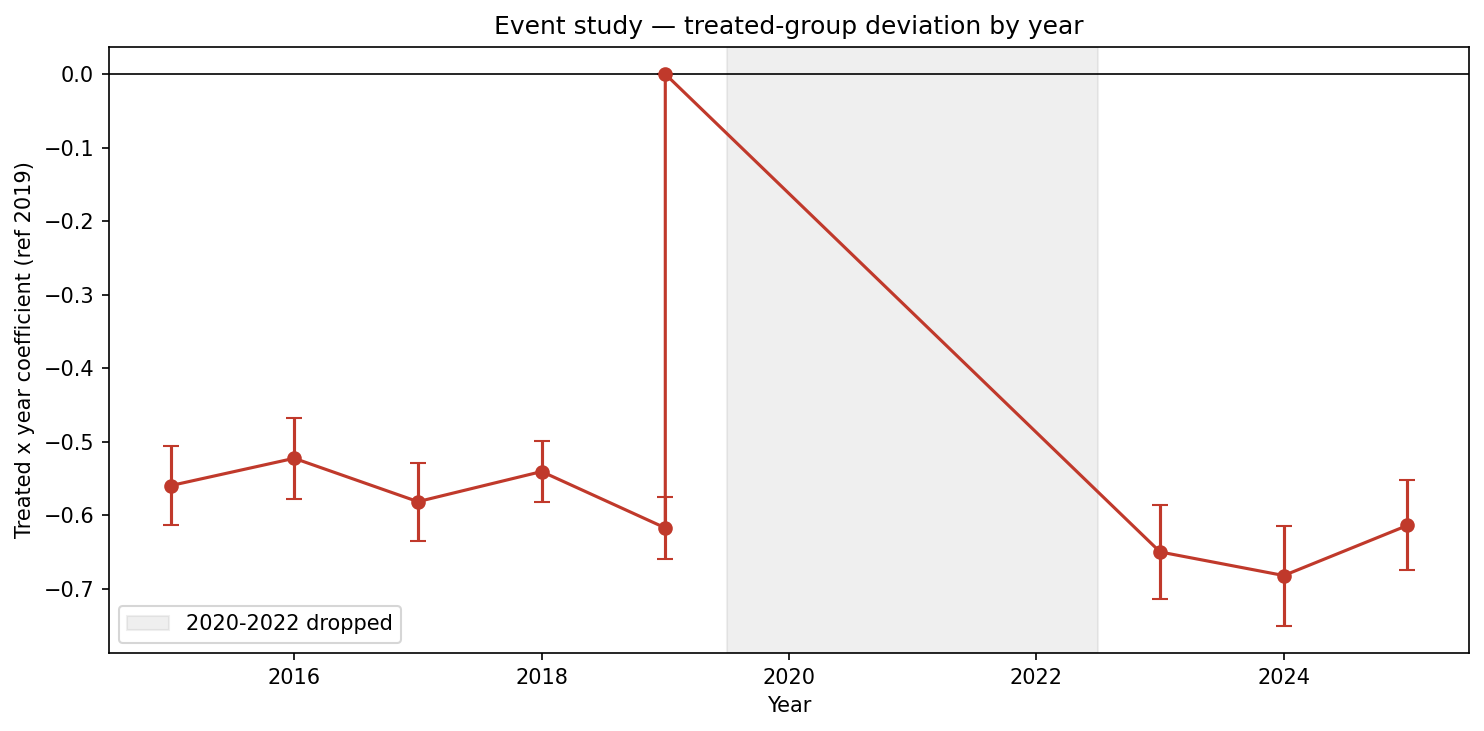
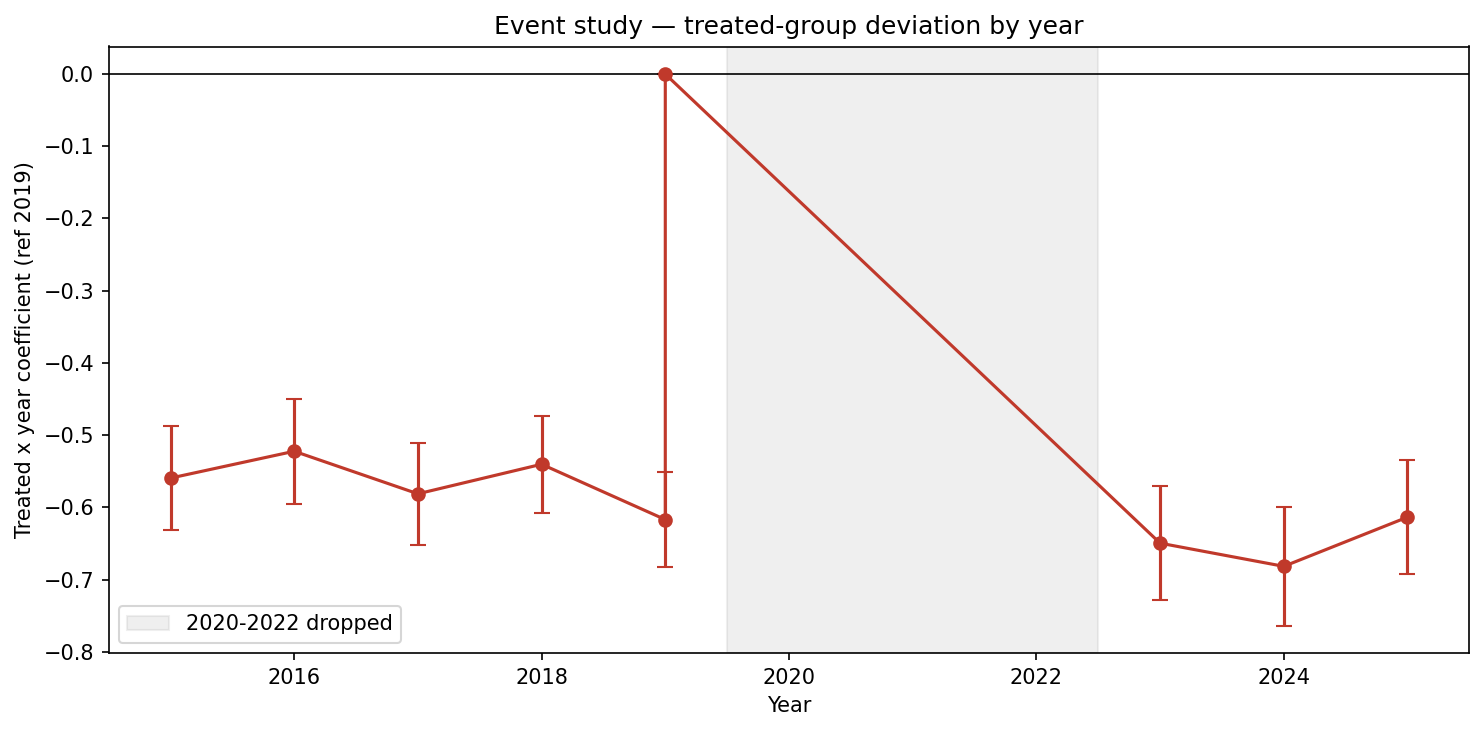
Fix the event study standard errors

diff --git a/src/data_loader.py b/src/data_loader.py
@@ -62,8 +62,10 @@ def load_failures() -> pd.DataFrame:
     df = _read_bdf(BDF_DIR / "failures_by_sector_size.csv")
     df = df[
         (df["REF_AREA"] == "FR")
+        & (df["FREQ"] == "M")
         & (df["DIREN_TAILLENT"] == "PM")
         & (df["DIREN_SECTACT"] != "ZZ")
+        & df["time_period"].str.match(r"^\d{4}-\d{2}$", na=False)
     ].copy()
     df["date"] = pd.to_datetime(df["time_period"], format="%Y-%m")
     out = df[["date", "DIREN_SECTACT", "value"]].rename(

diff --git a/README.md b/README.md
@@ -203,14 +203,15 @@ annual panels to `data/processed/`; 03 and 04 read them and produce the figures.
 ## Limitations
 
 1. **PGE / COVID rebound** — the dominant confounder; addressed by dropping 2020–2022 and the annual December sampling, so retained post observations lie fully after the hike.
-2. **Few sectors** — only nine NAF sectors; even with the wild cluster bootstrap, the sectoral test has low power and is suggestive only.
+2. **Few sectors** — only nine NAF sectors; even with the wild cluster bootstrap the sectoral test has low power (with 9 clusters there are just 2⁹ = 512 distinct sign vectors, so the bootstrap p-value is itself coarse). Read as suggestive.
 3. **Treatment proxy** — bank-debt share stands in for rate exposure (the maturity split is unavailable by sector in open data); industry and personal services aggregate two FIBEN sub-sectors with a simple mean.
 4. **Territorial granularity** — department failures are all-firms (no PME breakdown at that level; SMEs are ~99% of firms) and ZFRR intensity is unweighted by population.
-5. **Pre-trends** — the event study shows 2019 departs from the otherwise flat 2015–2018 pre-trend, so the territorial DiD should be read with caution; combined with the non-robustness to firm-weighting, the evidence does not support a causal claim.
+5. **Pre-trends are not clean** — the event study shows a large jump (~0.5 log) in the treated–control gap between 2018 and 2019: 2015–2018 are mutually flat but 2019 is anomalous (plausibly the annual volatility of small-department failure counts). This is large enough to question the territorial identification itself. Combined with the loss of significance under firm-weighting and the metropolitan-only specification, the evidence does **not** support a causal claim — the project's honest conclusion is a null.
 6. **Firm stock** — FLORES is a 2024 snapshot used as a fixed weight/denominator.
+7. **Reproducibility** — the annual processed panels are committed, so notebook 03 runs from a fresh clone; notebooks 01/02/04 read the raw files (gitignored) and require the downloads listed under *How to run*.
 
 ---
 
 ## Stack
 
-Python · pandas · statsmodels · matplotlib · seaborn · Jupyter
+Python · pandas · NumPy · statsmodels · matplotlib · Jupyter